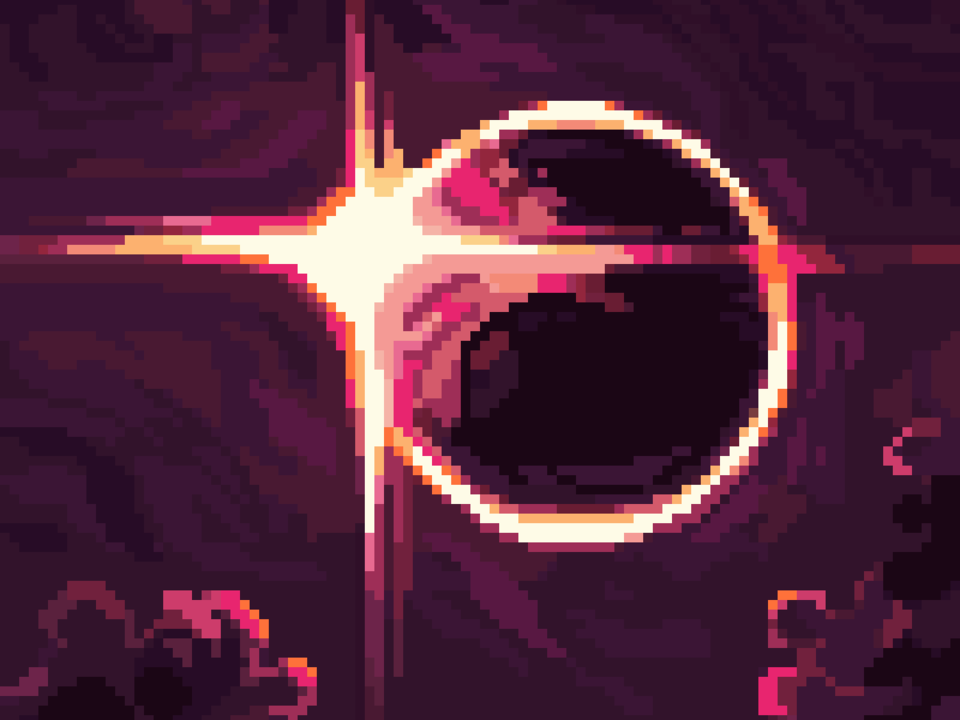
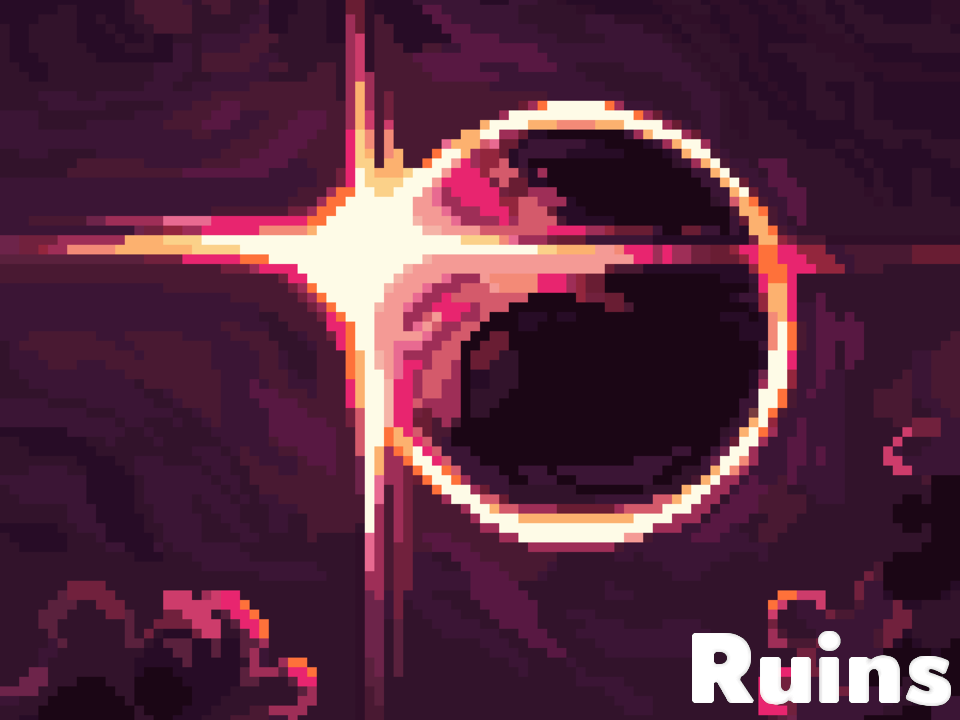
chore: タイトルロゴを追加した

Changed region(s): [[0.7188, 0.8556, 1.0, 0.9778]]

diff --git a/lib/states/main_menu.go b/lib/states/main_menu.go
@@ -8,7 +8,6 @@ import (
 	"github.com/kijimaD/ruins/lib/engine/states"
 	w "github.com/kijimaD/ruins/lib/engine/world"
 	"github.com/kijimaD/ruins/lib/eui"
-	"github.com/kijimaD/ruins/lib/styles"
 )
 
 type MainMenuState struct {
@@ -60,9 +59,6 @@ func (st *MainMenuState) Draw(world w.World, screen *ebiten.Image) {
 func (st *MainMenuState) initUI(world w.World) *ebitenui.UI {
 	rootContainer := eui.NewVerticalContainer()
 	st.mainMenuContainer = eui.NewVerticalContainer()
-
-	res := world.Resources.UIResources
-	rootContainer.AddChild(widget.NewText(widget.TextOpts.Text("Ruins", res.Text.BigTitleFace, styles.TextColor)))
 	rootContainer.AddChild(st.mainMenuContainer)
 
 	st.updateMenuContainer(world)
@@ -95,7 +91,7 @@ var mainMenuTrans = []struct {
 		trans: states.Transition{Type: states.TransSwitch, NewStates: []states.State{&IntroState{}}},
 	},
 	{
-		label: "拠点メニュー",
+		label: "拠点",
 		trans: states.Transition{Type: states.TransSwitch, NewStates: []states.State{&HomeMenuState{}}},
 	},
 	{
